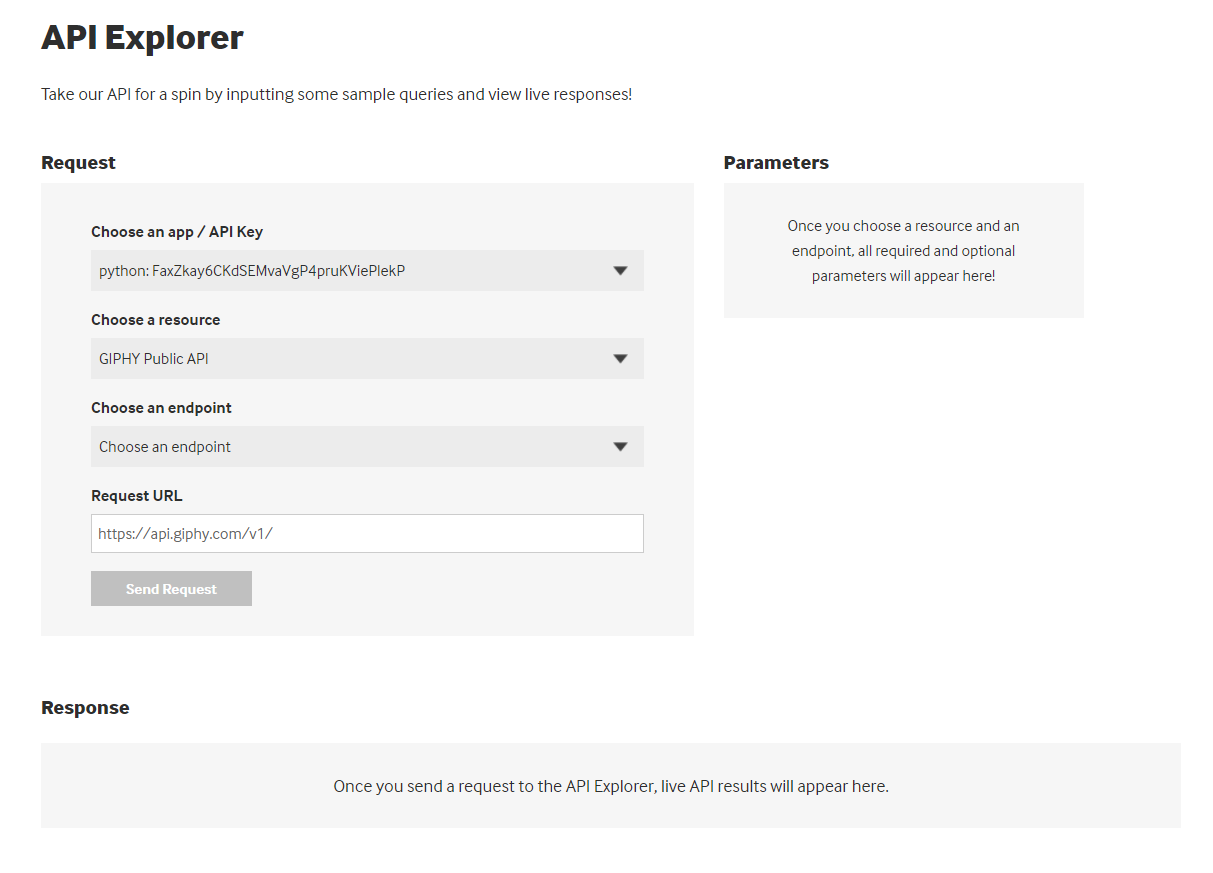
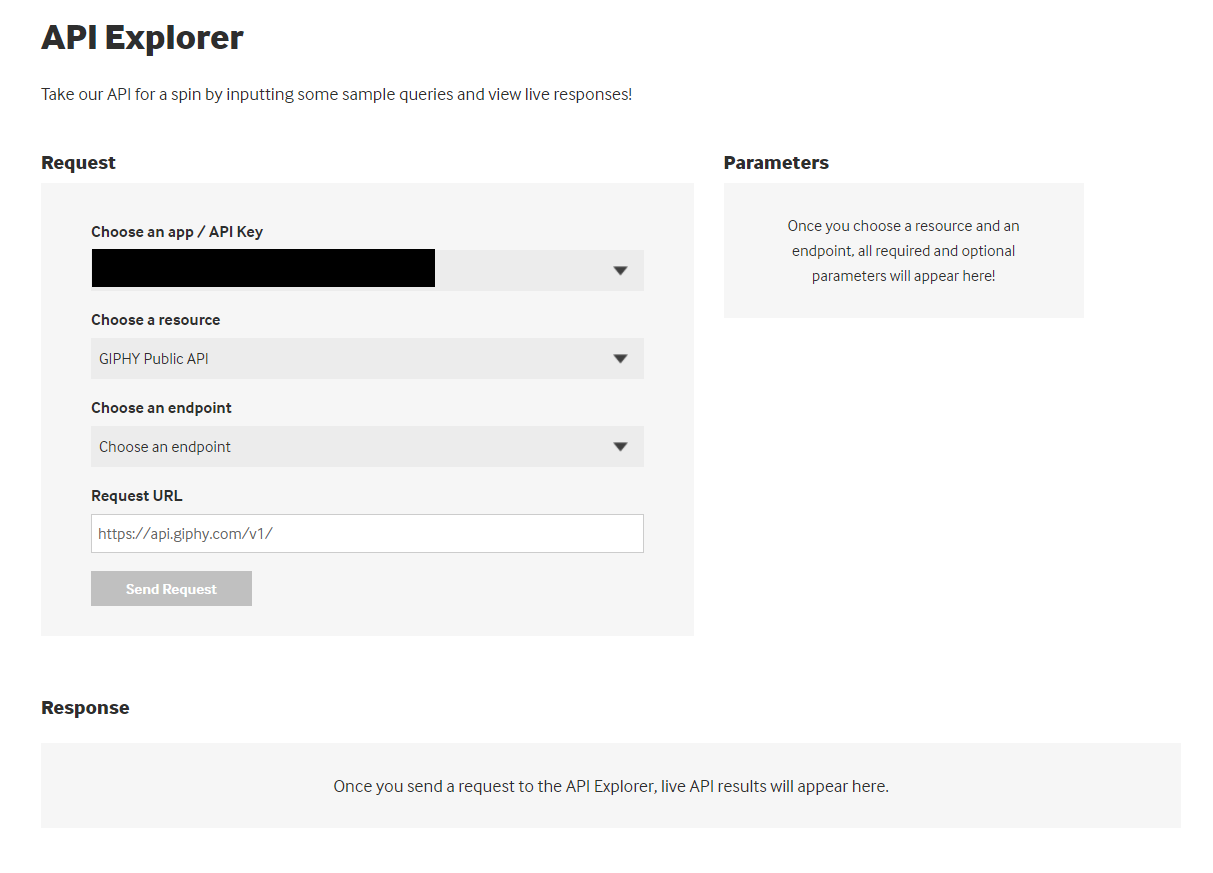
Modified README

Changed region(s): [[0.061, 0.2784, 0.366, 0.3402]]

diff --git a/PiClub/Anime Quote API/README.md b/PiClub/Anime Quote API/README.md
@@ -153,6 +153,8 @@ Now that we know how to obtain our epic quotes, it's time to get a fitting image
 
 Great now you should see a screen with your API Key. In practice you want to keep this key secret, if you think your key has leaked out, you can always cancel it and have a new one generated. 
 
+![](https://github.com/krum04/Goode-Hack-Lab/blob/main/PiClub/Anime%20Quote%20API/ReadMe%20Images/Giphy%20API%20Explorer%20Screen.PNG?raw=true)
+
 Let's see what we can do using the [API Explorer Here](https://developers.giphy.com/explorer).
 
 For the "Choose endpoint" drop down choose "Search"
